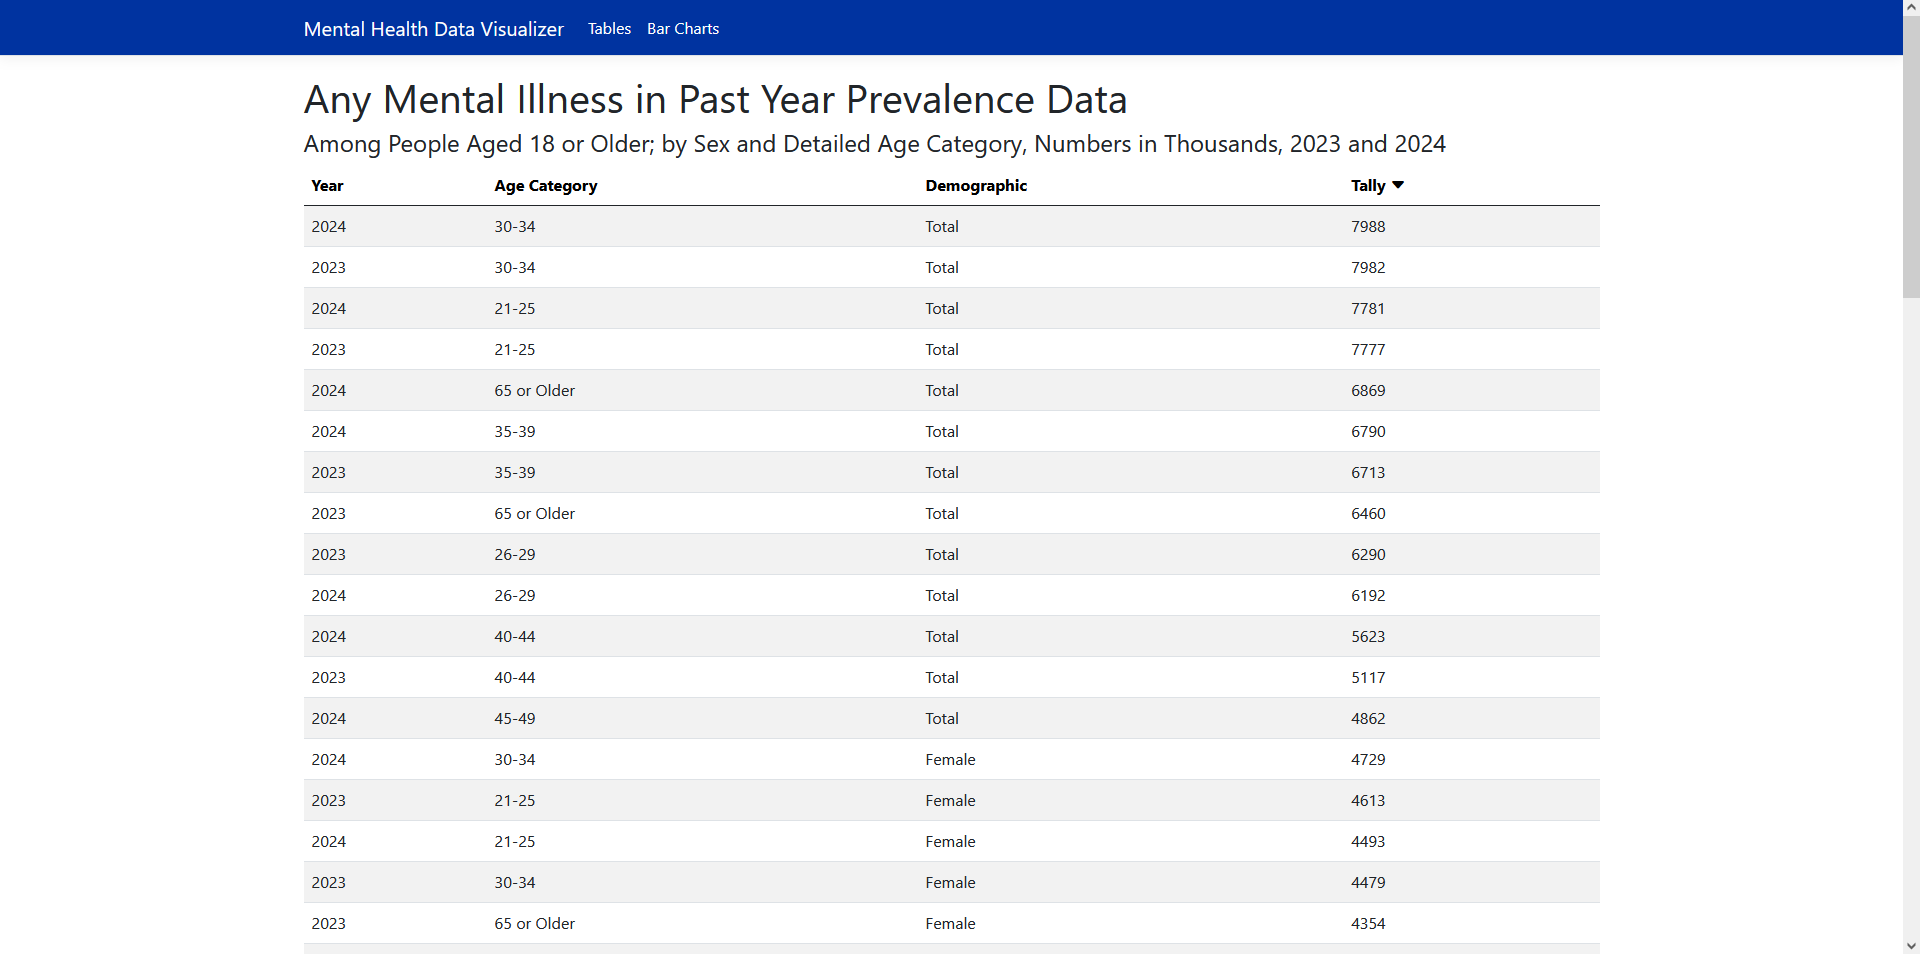
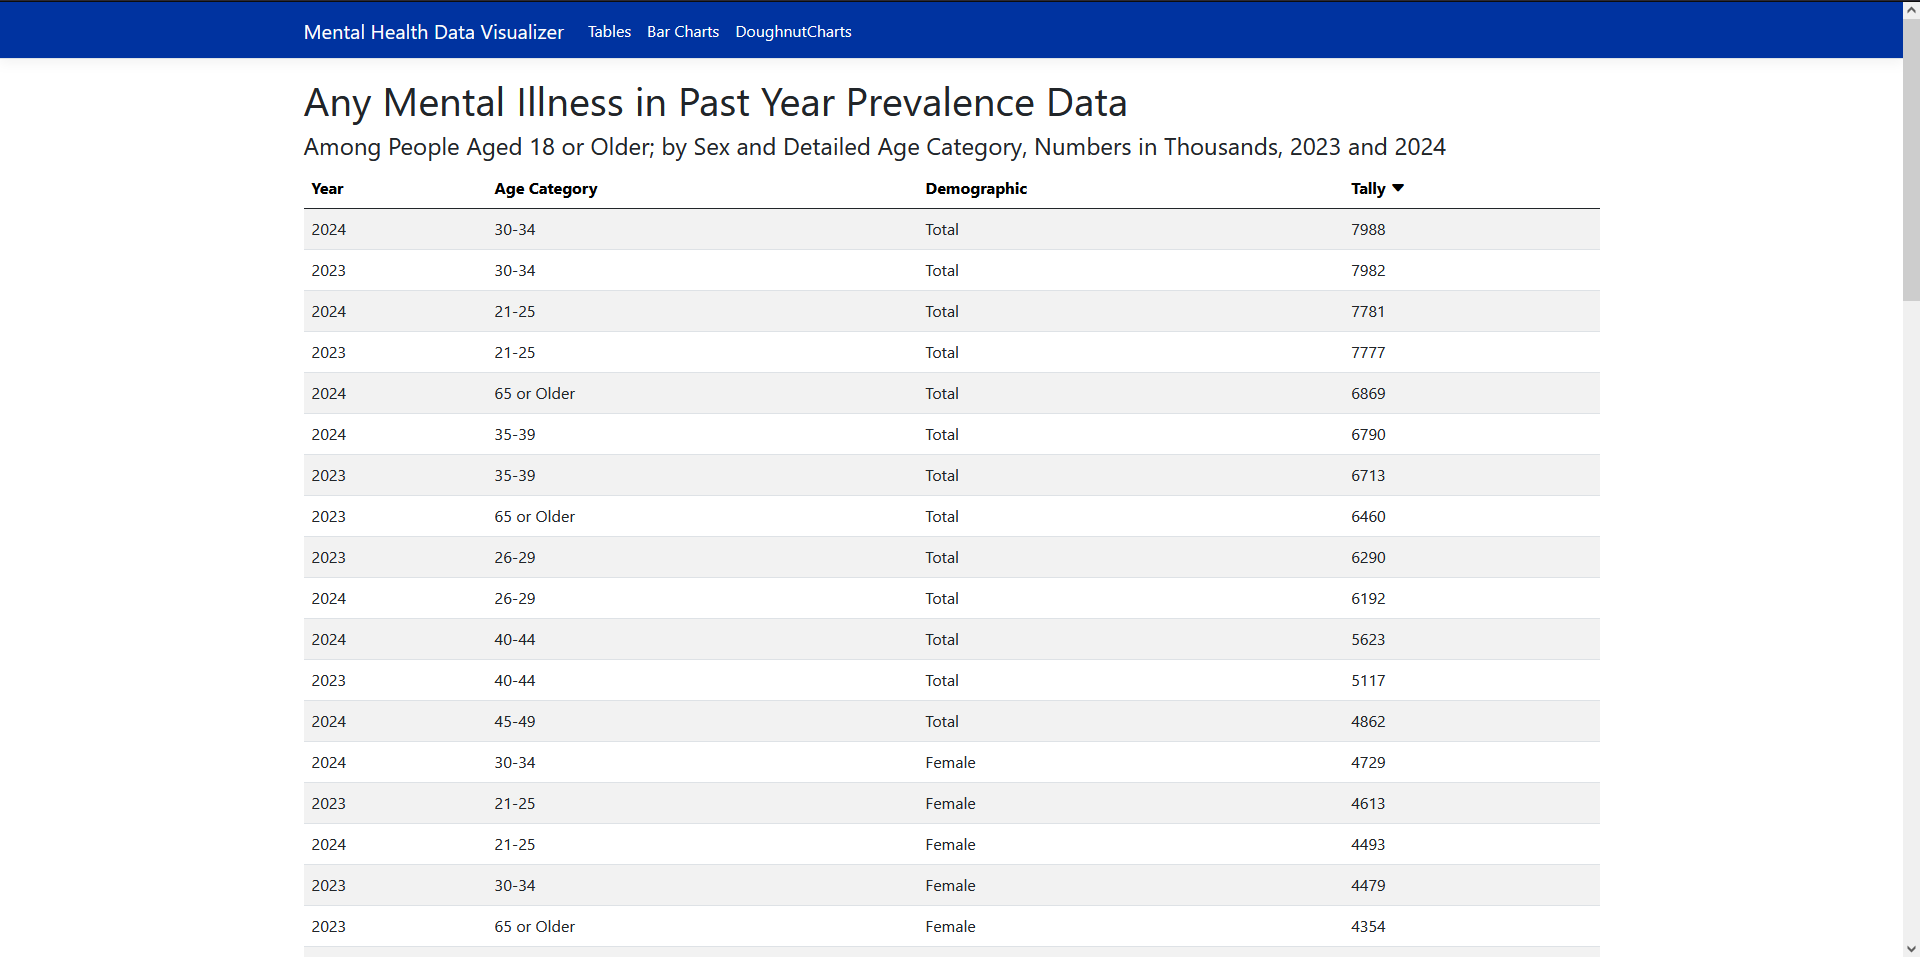
Add DoughnutCharts

diff --git a/MentalHealthDataVisualizer/Models/DoughnutChartsModel.cs b/MentalHealthDataVisualizer/Models/DoughnutChartsModel.cs
@@ -1,0 +1,26 @@
+using Microsoft.AspNetCore.Mvc;
+using Microsoft.AspNetCore.Mvc.RazorPages;
+using Microsoft.EntityFrameworkCore;
+using MentalHealthDataVisualizer.Data;
+
+namespace MentalHealthDataVisualizer.Models
+{
+    public class DoughnutChartsModel : PageModel
+    {
+        private readonly AppDbContext _context;
+
+        [BindProperty]
+        public IList<AmiPrevalence> AmiPrevalenceData { get; set; } = default!;
+
+        public DoughnutChartsModel(AppDbContext context)
+        {
+            _context = context;
+        }
+
+        public async Task OnGetAsync()
+        {
+            if (_context.AmiPrevalence != null)
+                AmiPrevalenceData = await _context.AmiPrevalence.ToListAsync();
+        }
+    }
+}
